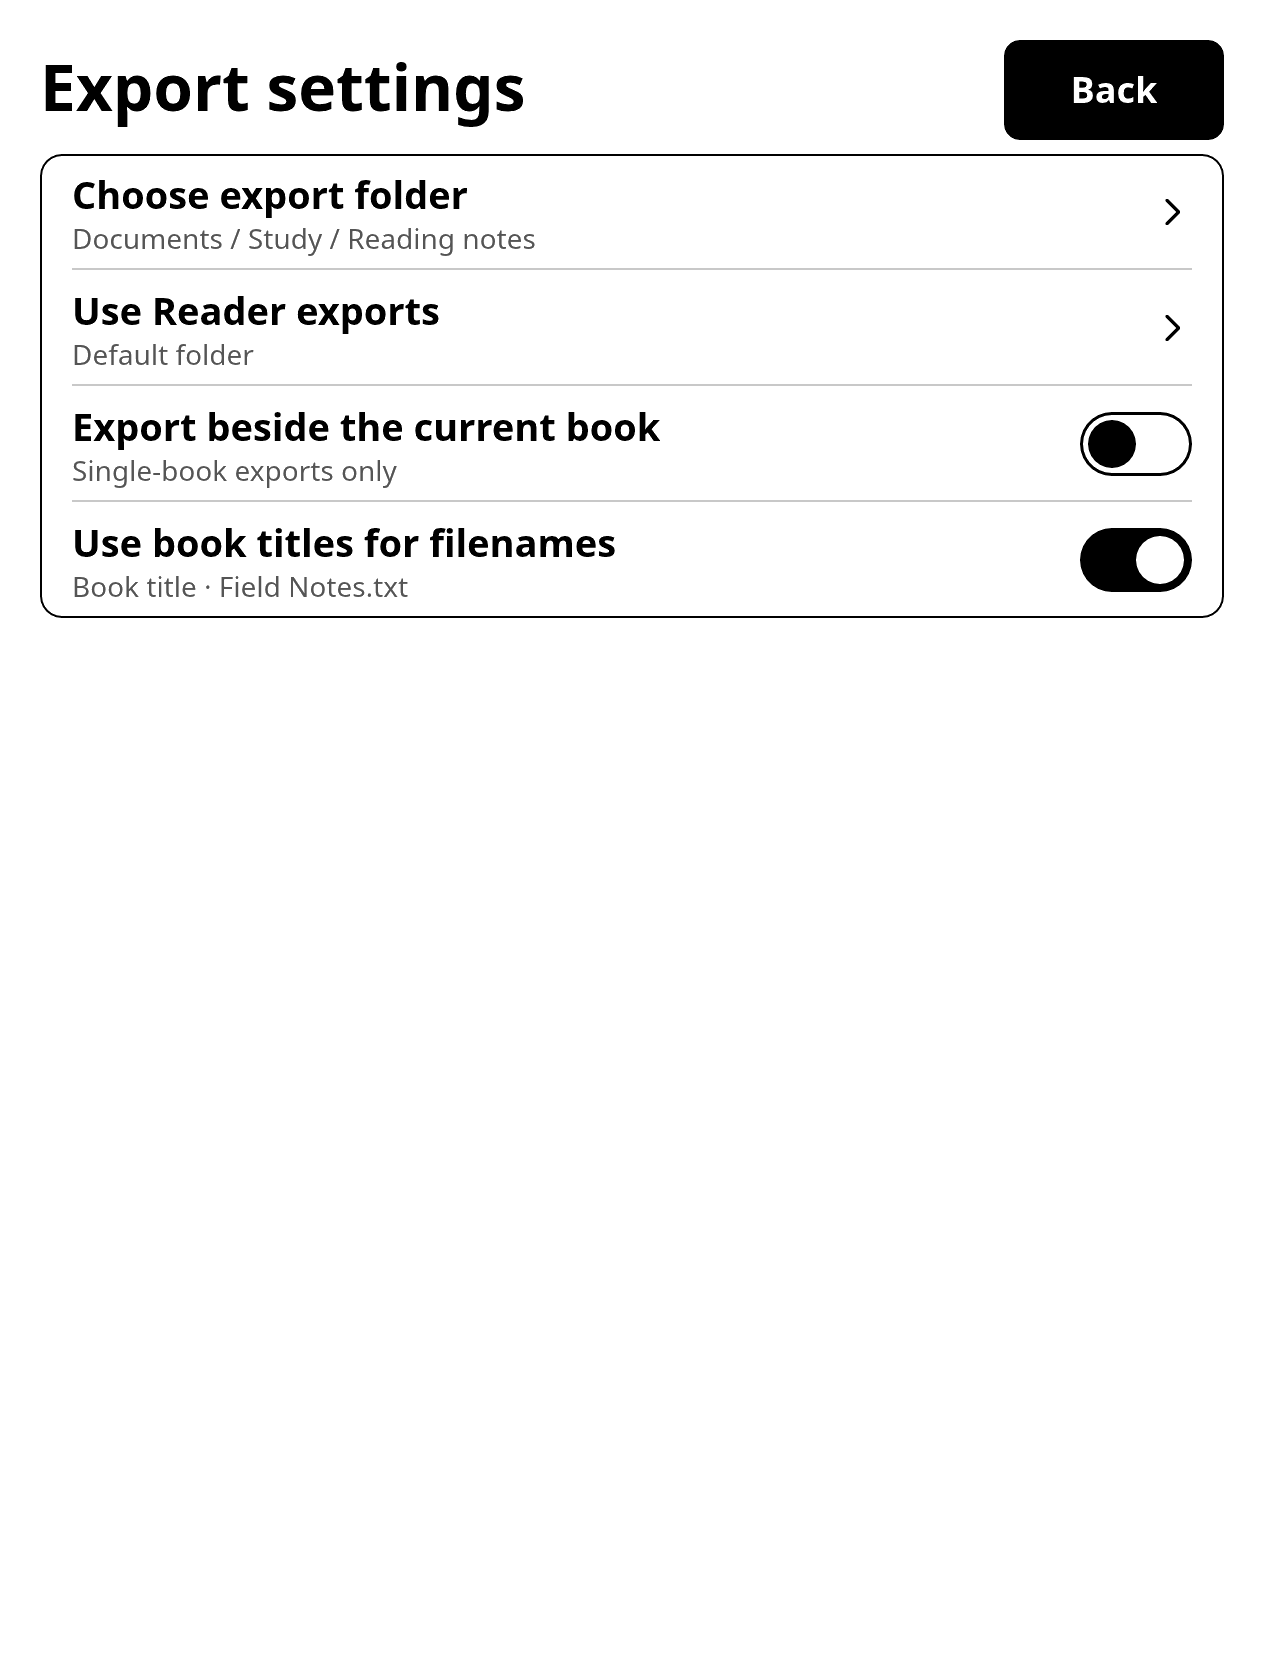
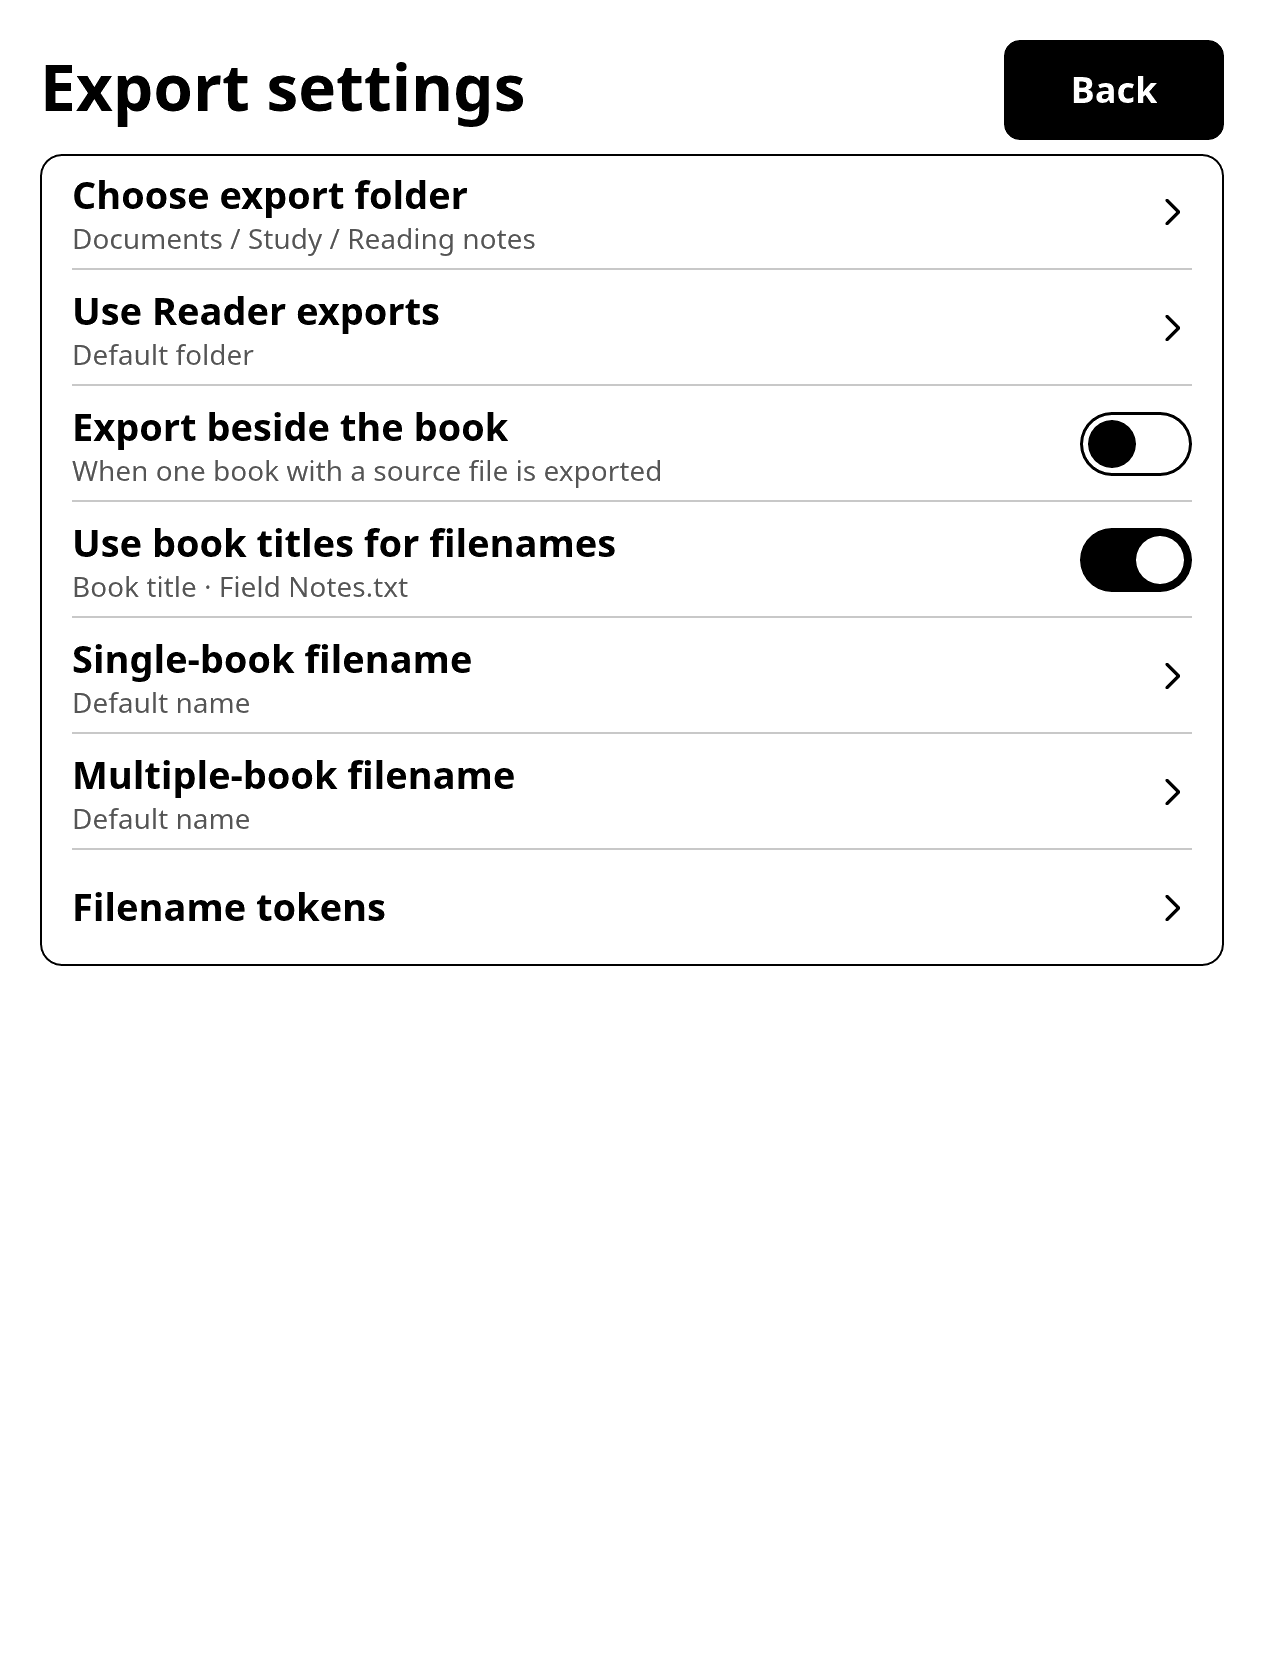
Record Reader 0.1.44 Oasis verification

diff --git a/docs/execution-plan.md b/docs/execution-plan.md
@@ -55,6 +55,14 @@ verify cutoff boundaries, preserved visits and failed writes. Test portrait
 defaults and per-book choices with both supported and earlier Launchers.
 [Scan reflow](scan-controls.md) · [Annotation export](library-highlights-export.md) · [Statistics](reading-statistics.md#reset-one-book-for-a-day-week-or-month) · [Portrait orientation](reading-edition-orientation.md)
 
+The Mac suite passed 1,187 checks. The Oasis passed 1,172 Reader library
+tests, 14 EPUB package tests and four layout probes. Both skipped 66 opt-in
+cases. The first Oasis test bundle lacked the symbol font used by two
+tests. The verified rerun used the same test binaries with the bundled
+font. All eleven Oasis frames matched the Mac simulator after capturing
+the two updated export screens from the integrated build. Foreground
+touch, panel refresh and live orientation have separate acceptance checks.
+
 ## Reader 0.1.43 verification plan
 
 Compare detected PDF crop padding and fit to the pinned native provider.
